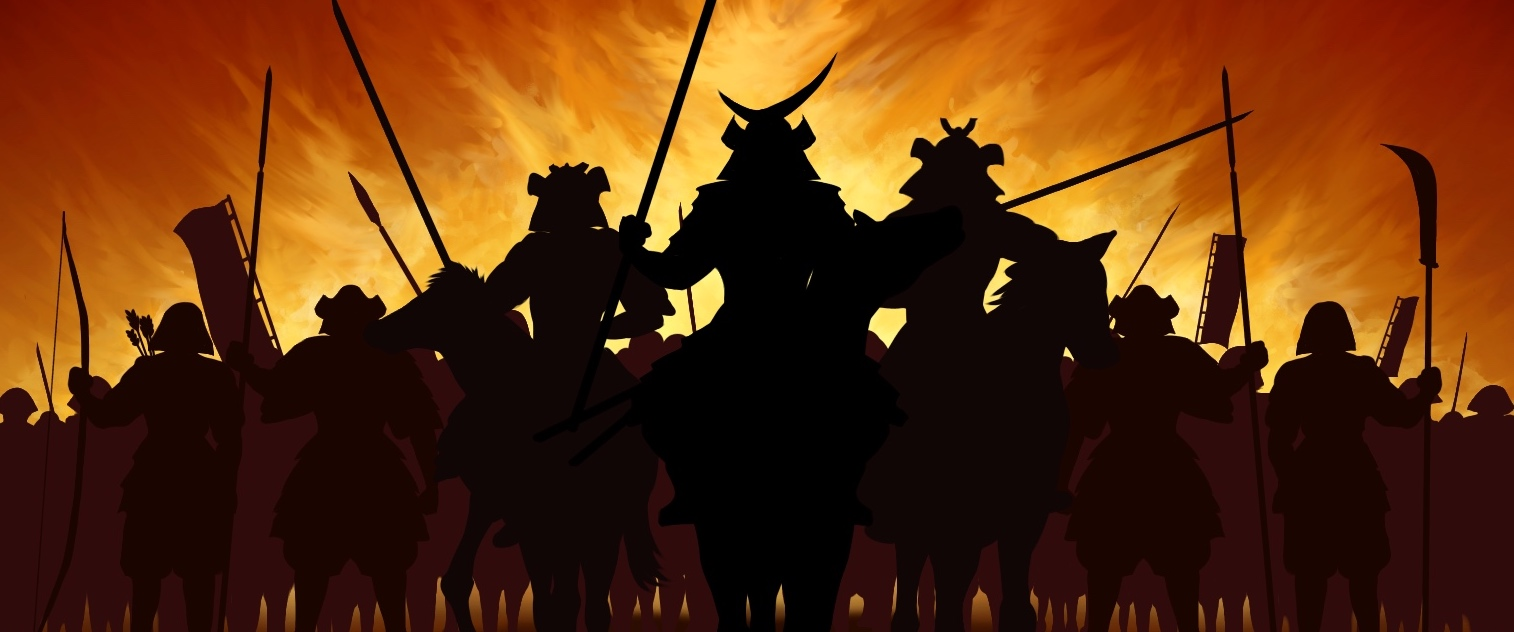
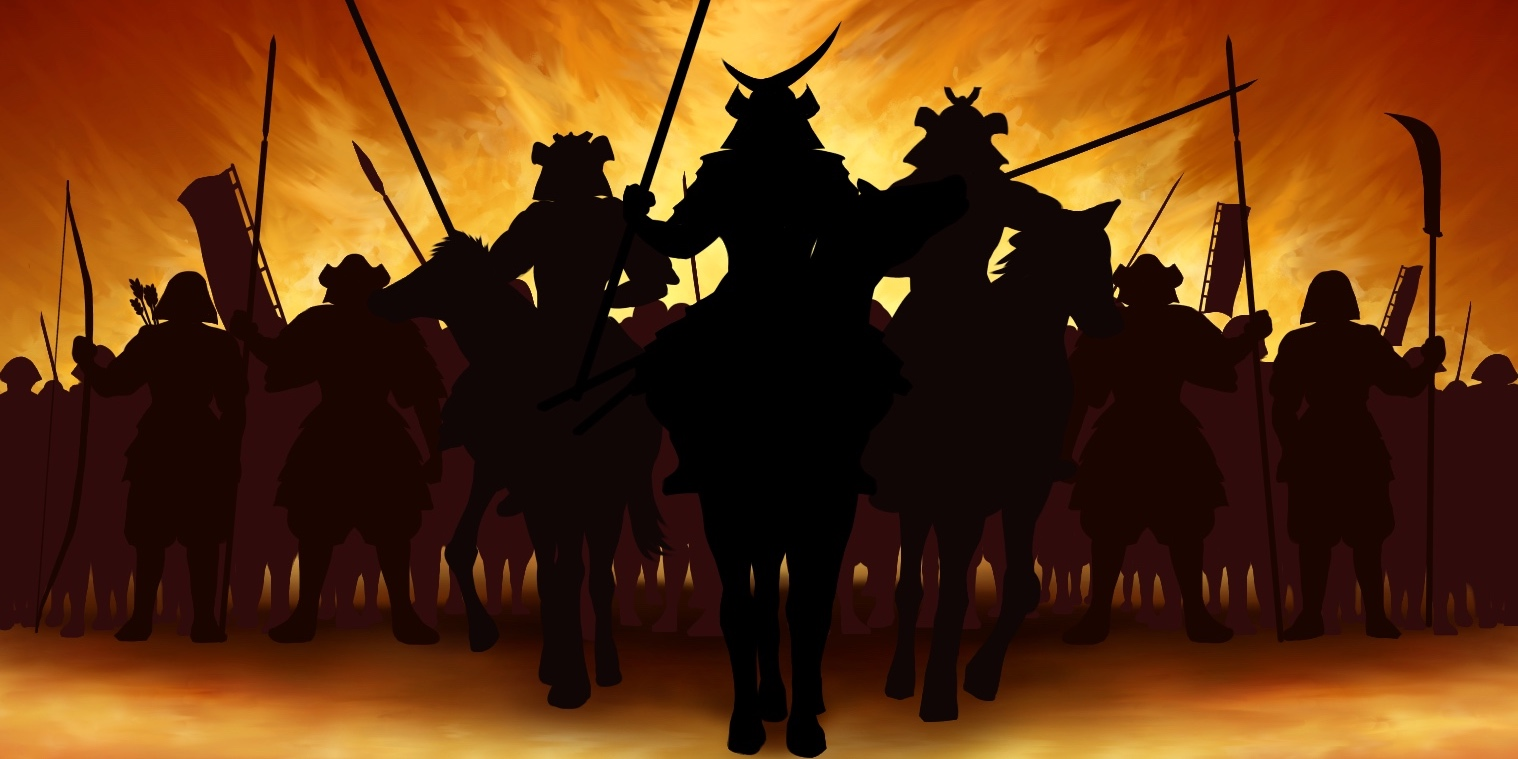
トップページの画像のレイアウト

diff --git a/app/assets/stylesheets/application.scss b/app/assets/stylesheets/application.scss
@@ -20,7 +20,7 @@ div.field_with_errors {
 .base-container {
   @extend .container-fluid;
   max-width: var(--breakpoint-lg);
-  // padding: 30px 15px;
+  padding: 30px 15px;
   background-color: rgba(0, 0, 0, 0.03);
 }
 
@@ -172,7 +172,7 @@ div.field_with_errors {
   background-color: #c82020 !important;
   border: solid 1px #991c1c;
   width: 200px;
-  margin-bottom: 30px;
+  margin-bottom: 15px;
 }
 //ボタンend
 
@@ -323,6 +323,33 @@ input[type='search'] {
   width: 100%;
   height: 500px;
   object-fit: cover;
+  padding-bottom: 20px;
+}
+
+.catch-copy {
+  position: relative;
+}
+
+.catch-copy p {
+  color: white;
+  // font-size: 1.5rem !important;
+  font-size: 100%;
+  position: absolute;
+  top: 50%;
+  left: 50%;
+  -ms-transform: translate(-50%, -50%);
+  -webkit-transform: translate(-50%, -50%);
+  transform: translate(-50%, -50%);
+  margin: 0;
+  padding: 0;
+}
+
+.catch-copy img {
+  text-align: center;
+  width: 100%;
+  height: 500px;
+  object-fit: cover;
+  padding-bottom: 20px;
 }
 
 ul {
